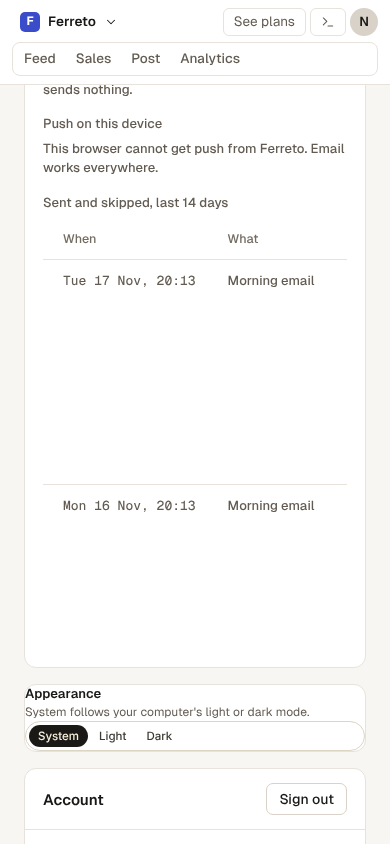
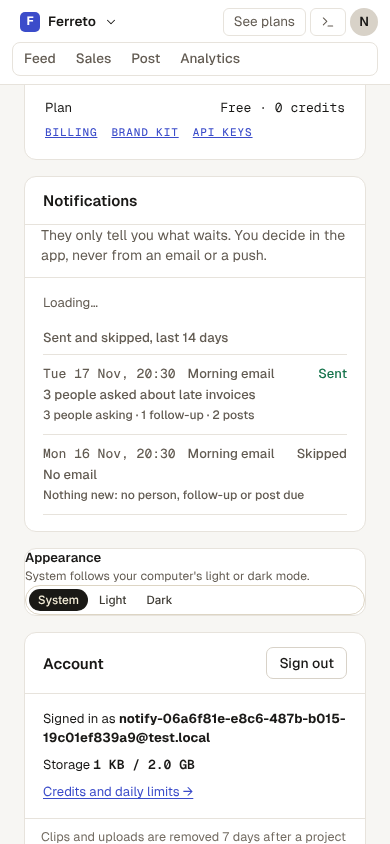
Wave 2: C3 done; Notifications screenshots
Claude-Session: https://claude.ai/code/session_017tYG29Ea7F5aMr6GKFFDrb

diff --git a/docs/plans/cmo/2026-11-19-wave2-sessions/C.md b/docs/plans/cmo/2026-11-19-wave2-sessions/C.md
@@ -30,7 +30,7 @@ Commit `Wave 2 C1: one usage bar` and push.
 drops its credit line. "Make an image" keeps its price. Grep for other `credits` labels on included work.
 Commit `Wave 2 C2: no per-click prices on included work` and push.
 
-### - [ ] C3. Notifications settings and the log (after A4, B2)
+### - [x] C3. Notifications settings and the log (after A4, B2)
 Settings › Notifications: morning email schedule select, the strong-match push toggle as today, and the log table
 (when, what, subject, Sent / Skipped / Failed) with a preview of the summary. Commit and push.
 
